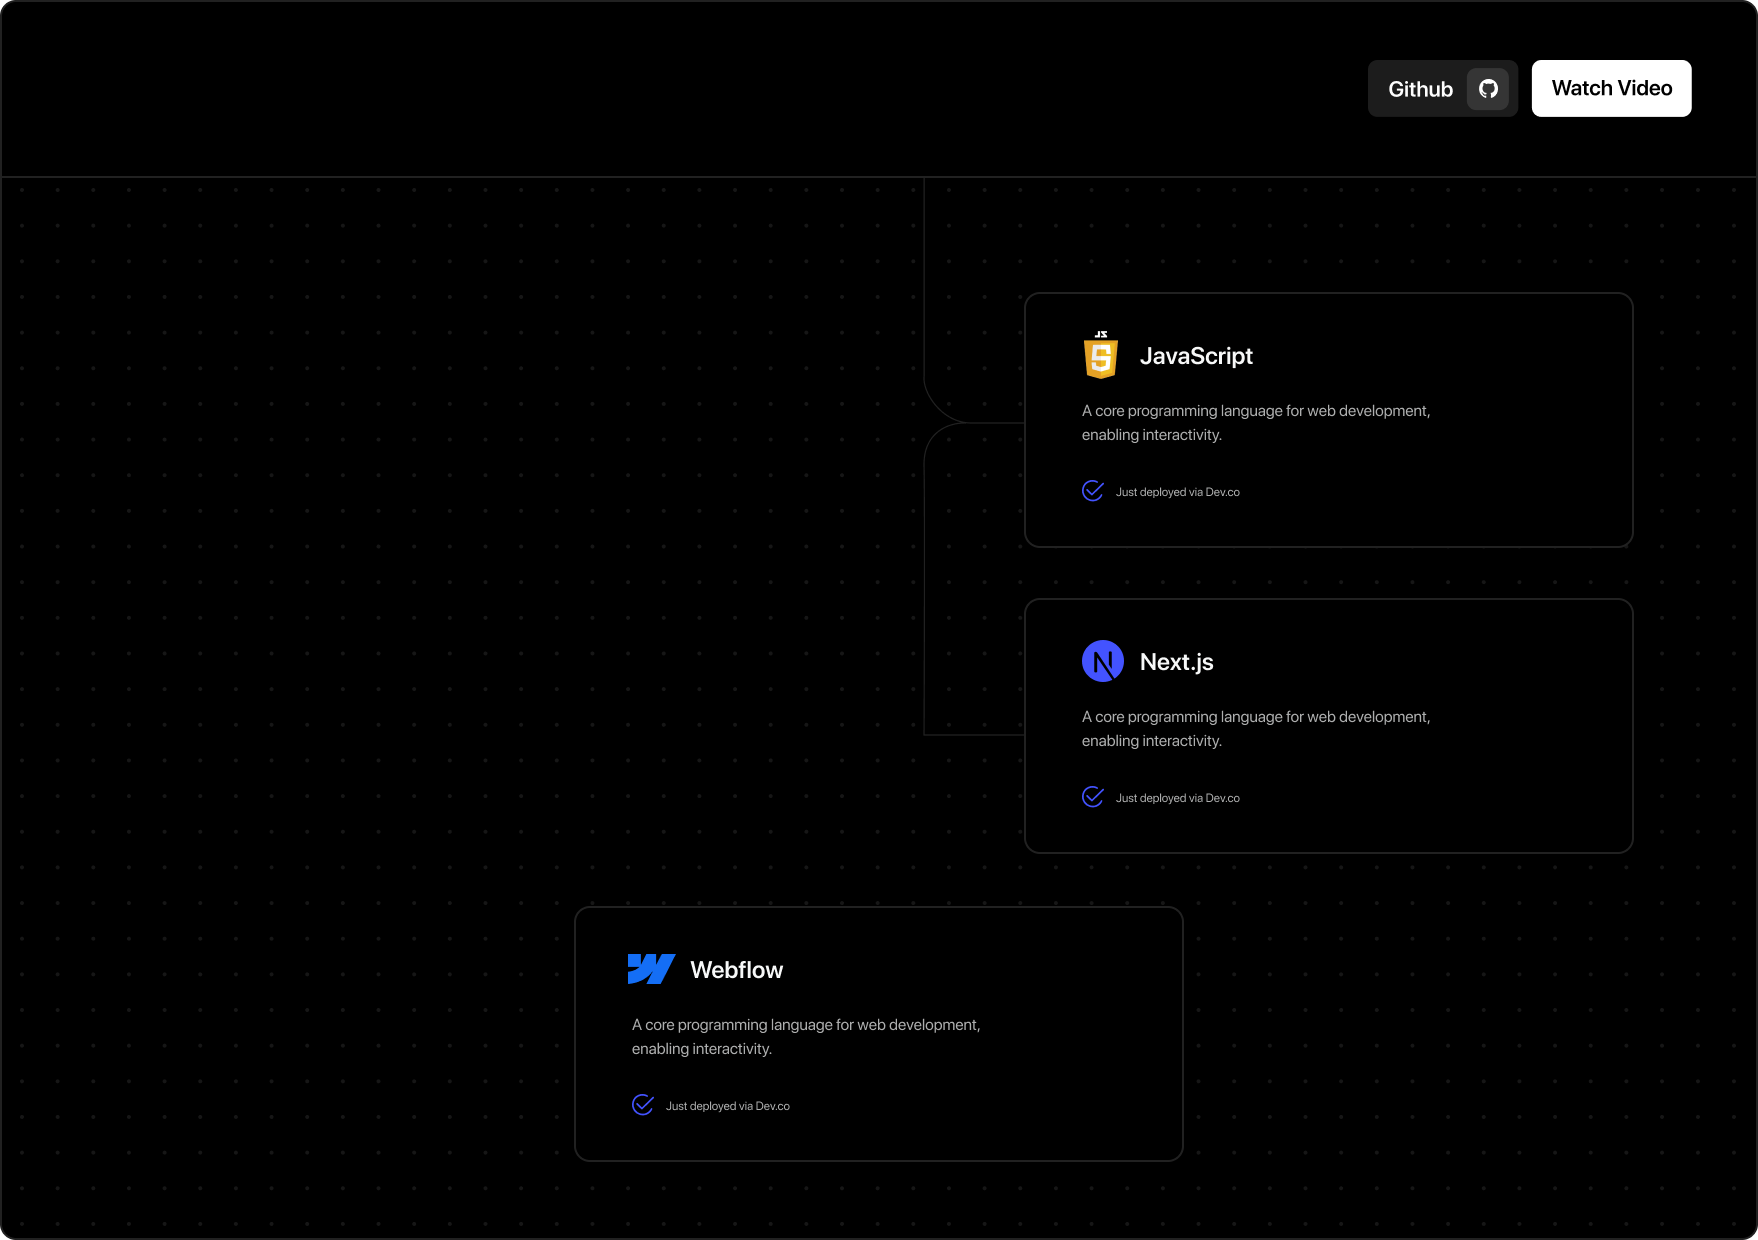
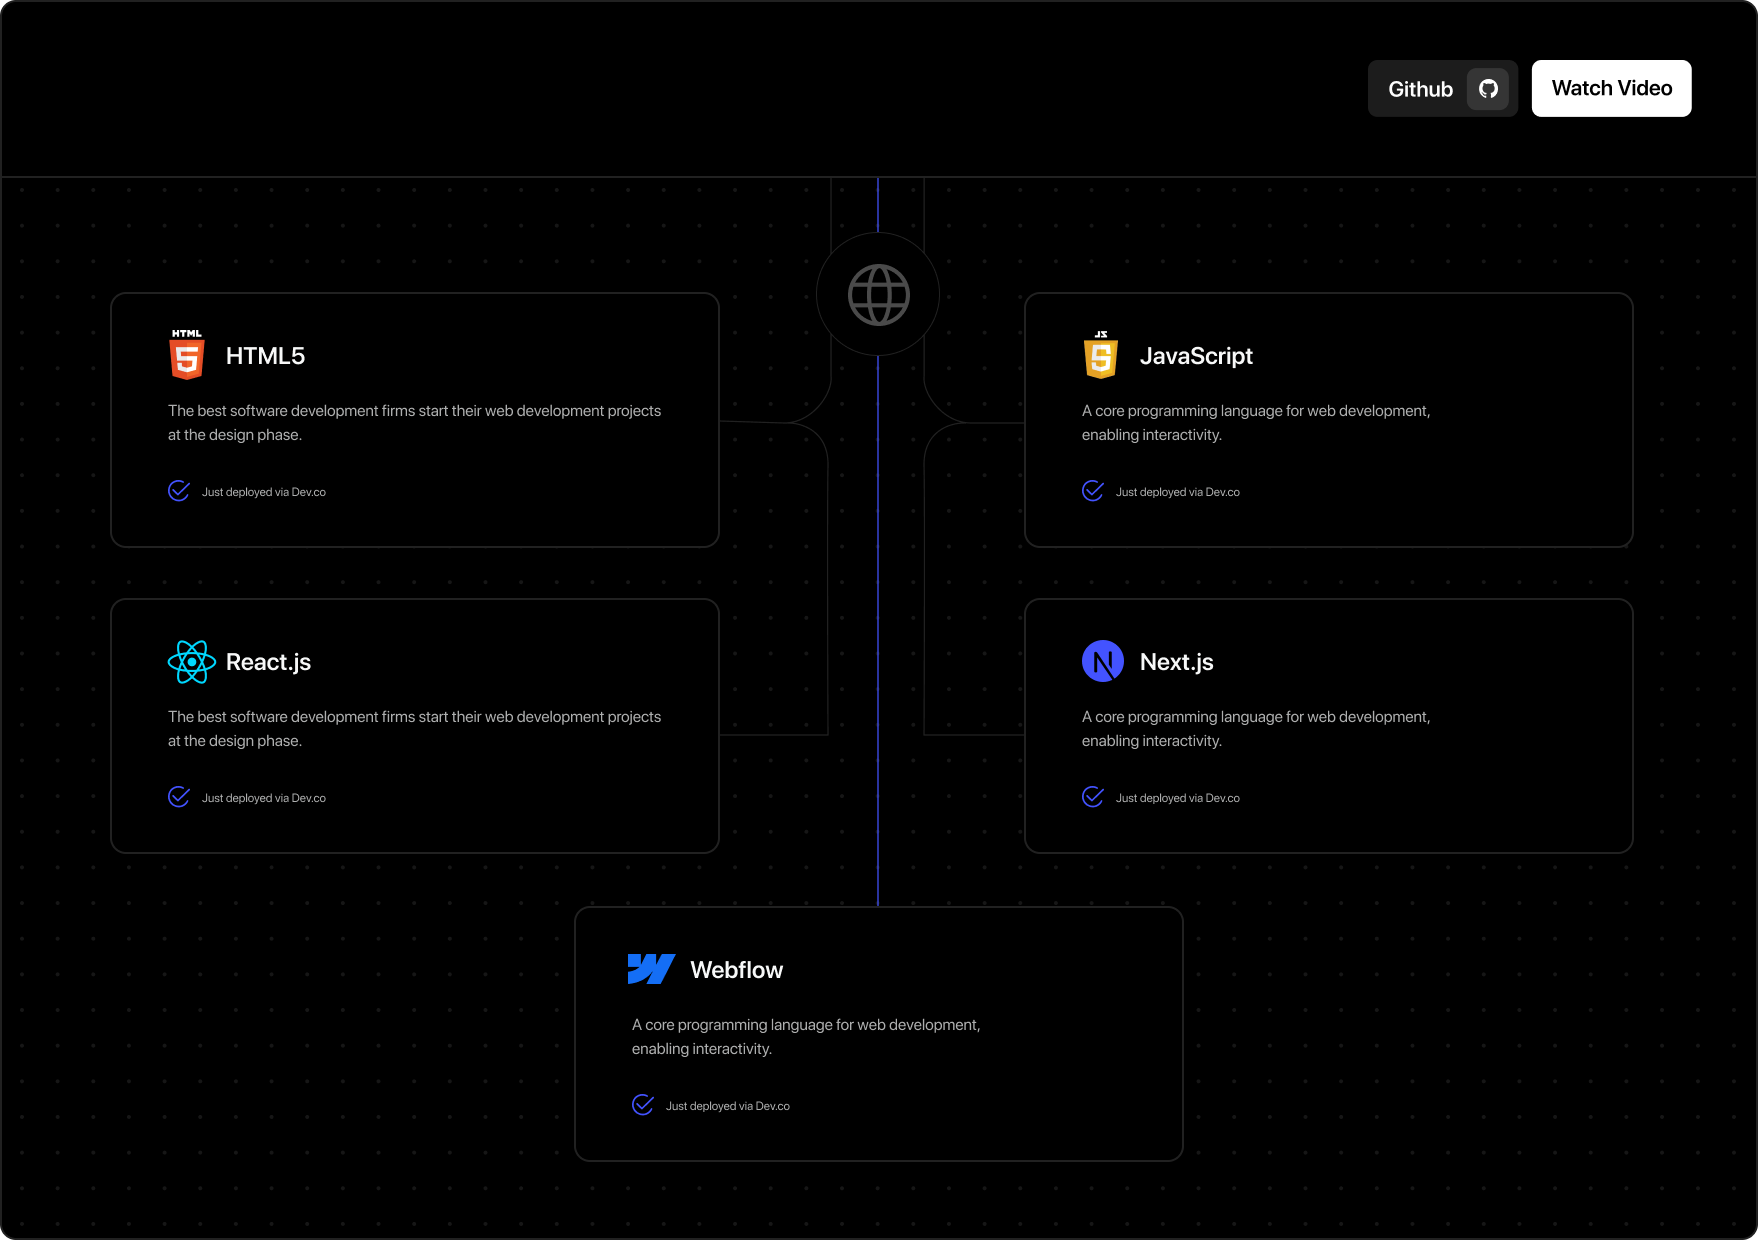
push code design section

Changed region(s): [[0.0922, 0.2452, 0.3686, 0.3677], [0.0922, 0.521, 0.3686, 0.6129], [0.4608, 0.2145, 0.5222, 0.2758]]

diff --git a/src/app/components/cards/BasicCard.js b/src/app/components/cards/BasicCard.js
@@ -1,24 +1,23 @@
 import React from "react";
 import Image from "next/image";
-import homeCustomStyle from "../../styles/home.module.css";
 
 export default function BasicCard({ cardData }) {
     return (
-        <div className="max-w-sm rounded overflow-hidden shadow-lg border-lightBlue border-2 p-8">
-            <div className="mb-2 inline-block rounded-md p-2 border-lightBlue border-2">
+        <div className="w-full h-100 rounded overflow-hidden shadow-lg border-lightBlue border p-8 data_card bg-white/5 backdrop-blur-lg"> 
+            <div className="mb-4 flex items-center justify-center rounded-md p-2 border-lightBlue border icon_box w-[50px] h-[50px] bg-[rgba(67,83,255,0.04)] border-[rgba(67,83,255,0.12)]">
                 <Image src={cardData.iconSrc} width={20} height={22} alt="Card Icon" />
             </div>
 
             <div className="mb-5">
-                <h2 className="font-bold text-xl mb-2 text-[25px]">{cardData.title}</h2>
-                <p className="text-[16px]">{cardData.description}</p>
+                <h2 className="font-semibold mb-3 text-[25px] text-customwhite">{cardData.title}</h2>
+                <p className="text-[20px] text-customwhite leading-normal">{cardData.description}</p>
             </div>
             <div>
                 <div className="flex flex-col space-y-4 mb-2">
                     {cardData.services.map((service, index) => (
-                        <div key={index} className="flex space-x-2 ">
-                            <Image src={service.imageSrc} width={33} height={33} alt={`${service.name} Icon`} />
-                            <p className="w-full border-b border-lightBlue">{service.name}</p>
+                        <div key={index} className="flex skill_line space-x-4">
+                            <div className="image_icon"><Image src={service.imageSrc} width={50} height={40} alt={`${service.name} Icon`} /></div>
+                            <p className="w-full border-b border-lightBlue text-customwhite leading-normal text-[18px]">{service.name}</p>
                         </div>
                     ))}
                 </div>
@@ -26,4 +25,3 @@ export default function BasicCard({ cardData }) {
         </div>
     );
 }
-

diff --git a/src/app/components/Services/DesignSection.js b/src/app/components/Services/DesignSection.js
@@ -1,9 +1,11 @@
 import React from 'react';
 import Image from 'next/image';
+import BasicCard from '../cards/BasicCard';
+import { homeCard1 } from "../../data/home";
 
 const DesignSection = () => {
   return (
-    <div className='service_section py-20 relative' style={{
+    <div className='service_section py-20 relative bg-right' style={{
       backgroundImage: "url('/images/right_circle.svg')",
       backgroundRepeat: "no-repeat",
     }}>
@@ -23,7 +25,7 @@ const DesignSection = () => {
                   </div>
                   <div class="media_col">
                   <Image
-                      className='service_frame absolute top-0 right-0 px-20 w-1/2'
+                      className='service_frame absolute top-0 z-1 right-0 px-20 w-1/2'
                       src="/images/design_frame.png"
                       alt="Banner Image"
                       width={1920}
@@ -33,19 +35,25 @@ const DesignSection = () => {
                 </div>
             </div>
           </div>
-          <div className='service_cards_wrapper'>
+          <div className='service_cards_wrapper mt-16 relative z-10'>
             <div className='container mx-auto'>
               <div className='card_col_flex flex flex-wrap w-full'>
                   <div className='w-3/5 card_col'>
                     <div className='card_grid grid grid-cols-2 gap-4'>
-                      <div className='card_box_col'>1</div>
-                      <div className='card_box_col'>2</div>
-                      <div className='card_box_col'>3</div>
+                    {homeCard1.map((cardData, index) => (
+                      <div className='card_box_col'><BasicCard key={index} cardData={cardData} /></div>
+                    ))}
                     </div>
+                     
                   </div>
                   <div className='w-2/5 card_col'>
                   
                   </div>
+                  
+
+                  
+                  
+                 
               </div>
             </div>
           </div>

diff --git a/src/app/data/home.js b/src/app/data/home.js
@@ -20,7 +20,7 @@ export const homeCard1 = [
     },
 
     {
-        title: "Our Services",
+        title: "Our Services kjk",
         description: "We provide support for all of your custom software development projects.",
         iconSrc: "/images/3d.png", // Dynamic icon source
         services: [
@@ -39,7 +39,7 @@ export const homeCard1 = [
         ],
     },
     {
-        title: "Our Services",
+        title: "Our Services 123",
         description: "We provide support for all of your custom software development projects.",
         iconSrc: "/images/3d.png", // Dynamic icon source
         services: [

diff --git a/src/app/page.tsx b/src/app/page.tsx
@@ -1,7 +1,6 @@
 import HeroBanner from "./components/layout/HeroBanner";
 import Faq from "./components/faq/Faq";
-import BasicCard from "./components/cards/BasicCard";
-import { homeCard1 } from "./data/home.js";
+
 import DesignSection from './components/Services/DesignSection';
 
 
@@ -19,9 +18,7 @@ export default function Home() {
       <HeroBanner />
       <DesignSection/>
       <Faq /> 
-      {homeCard1.map((cardData, index) => (
-          <BasicCard key={index} cardData={cardData} />
-        ))}
+
     </div>
     
     </>

diff --git a/src/app/globals.css b/src/app/globals.css
@@ -121,4 +121,14 @@ img{
 h1,h2,h3,h4,h5,h6{
     line-height: 1.3;
 }
+.skill_line .image_icon {
+    min-width: 40px;
+    max-width: 40px;
+    display: flex;
+    align-items: center;
+}
+.skill_line .image_icon img {
+    width: 100% !important;
+    height: 40px !important;
+}
 

diff --git a/tailwind.config.js b/tailwind.config.js
@@ -19,7 +19,7 @@ module.exports = {
         black: '#000000',
       },
       borderColor: {
-        lightBlue:'rgba(255, 255, 255, 0.1)'
+        lightBlue:'rgba(255, 255, 255, 0.1)',
 
       },
       fontSize: {
